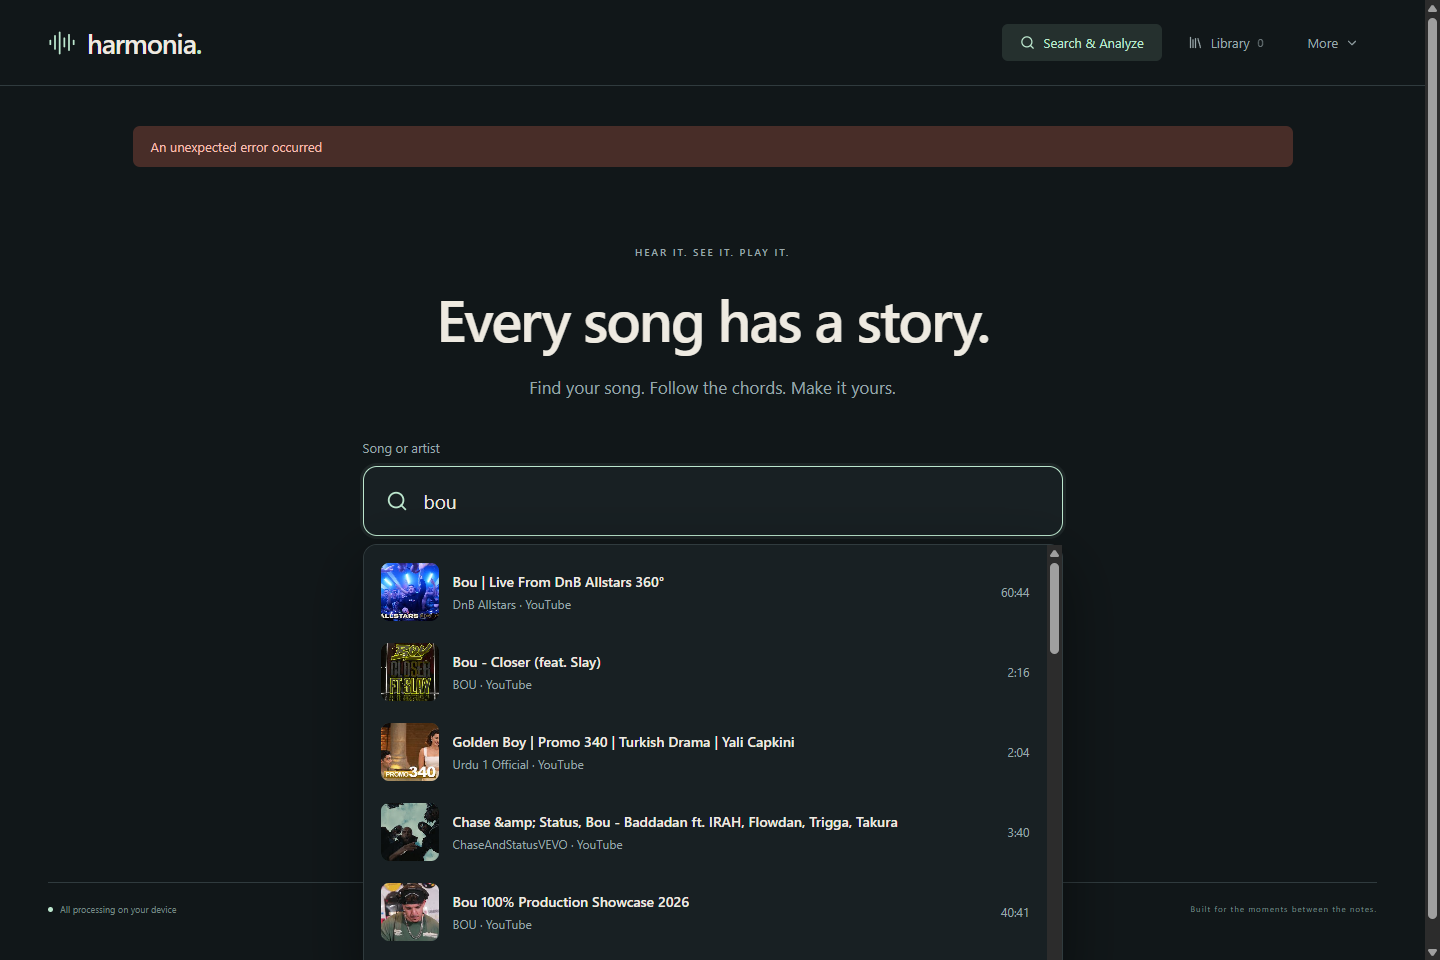
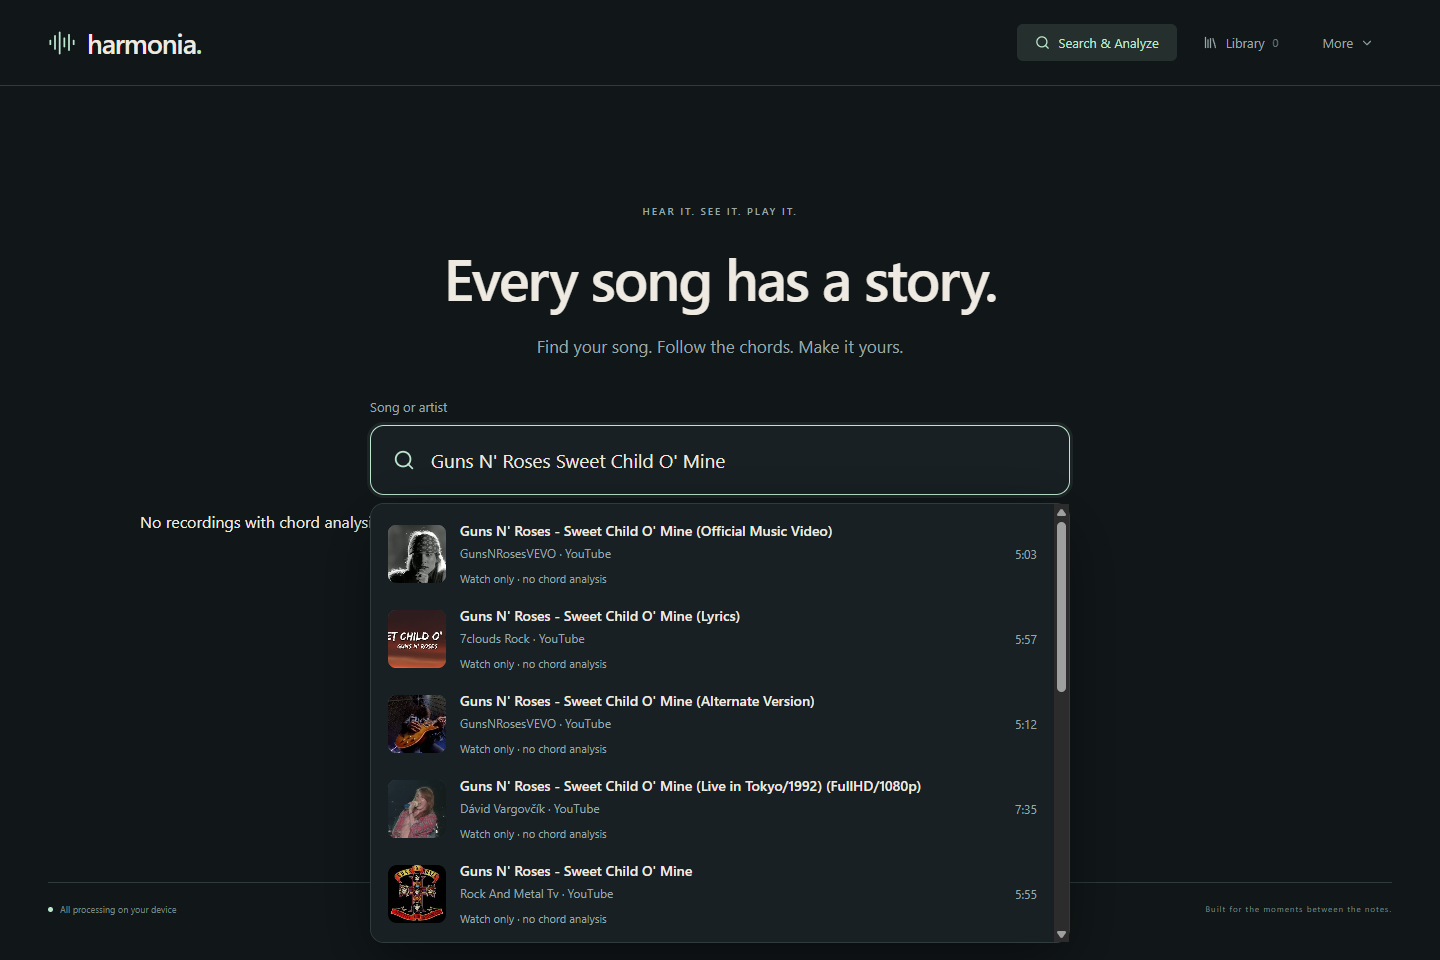
Decode YouTube titles and expose actual analysis availability

diff --git a/packages/providers/consumer-catalog.ts b/packages/providers/consumer-catalog.ts
@@ -13,11 +13,12 @@ export class ConsumerCatalog {
     onResults?: (results: CatalogRecording[]) => void,
   ) {
     signal.throwIfAborted();
-    // A slow supplementary catalog must not indefinitely hold YouTube suggestions.
+    // YouTube suggestions publish independently. Give the playable catalog enough
+    // time to respond instead of silently discarding it after a short typeahead budget.
     const supplemental = new AbortController();
     const cancel = () => supplemental.abort(signal.reason);
     signal.addEventListener('abort', cancel, { once: true });
-    const timeout = setTimeout(() => supplemental.abort(), 2000);
+    const timeout = setTimeout(() => supplemental.abort(), 10000);
     try {
       const [videos, recordings] = await Promise.allSettled([
         this.youtube.search(query, signal).then((results) => {
@@ -38,7 +39,11 @@ export class ConsumerCatalog {
         notice:
           videos.status === 'rejected'
             ? 'YouTube search is unavailable on this computer. You can still choose an available recording below.'
-            : null,
+            : recordings.status === 'rejected'
+              ? 'Could not load recordings with chord analysis. Try searching again. YouTube results are watch-only.'
+              : !results.some((recording) => recording.audio) && results.length
+                ? 'No recordings with chord analysis were found. YouTube results are watch-only.'
+                : null,
       };
     } finally {
       clearTimeout(timeout);

diff --git a/packages/providers/consumer-catalog.test.ts b/packages/providers/consumer-catalog.test.ts
@@ -1,6 +1,38 @@
-import { expect, it, vi } from 'vitest';
+import { afterEach, expect, it, vi } from 'vitest';
 import { ConsumerCatalog } from './consumer-catalog';
 import type { CatalogRecording } from '../application/catalog-contracts';
+afterEach(() => vi.useRealTimers());
+
+it('does not discard playable catalog results after only two seconds', async () => {
+  vi.useFakeTimers();
+  let sourceSignal!: AbortSignal;
+  let finish!: (value: CatalogRecording[]) => void;
+  const service = new ConsumerCatalog(
+    { search: async () => [video] },
+    {
+      search: (_q, _provider, signal) =>
+        new Promise((resolve) => {
+          sourceSignal = signal;
+          finish = resolve;
+        }),
+      acquire: vi.fn(),
+    },
+  );
+  const pending = service.search('song', 'youtube', new AbortController().signal);
+  await vi.advanceTimersByTimeAsync(2500);
+  expect(sourceSignal.aborted).toBe(false);
+  finish([permitted]);
+  expect((await pending).results).toContain(permitted);
+});
+
+it('explains when search finds only watch-only videos, not playable recordings', async () => {
+  const service = new ConsumerCatalog(
+    { search: async () => [video] },
+    { search: async () => [], acquire: vi.fn() },
+  );
+  const page = await service.search('song', 'youtube', new AbortController().signal);
+  expect(page.notice).toContain('YouTube results are watch-only');
+});
 
 const video: CatalogRecording = {
   id: 'abcdefghijk',

diff --git a/tests/e2e/consumer-player.spec.ts b/tests/e2e/consumer-player.spec.ts
@@ -123,6 +123,7 @@ test('configured API mock: debounce, stale response protection, arrows, Escape a
   await input.fill('new');
   await expect(page.getByRole('option')).toHaveCount(2);
   await expect(page.getByRole('option').first()).toContainText('new song 1');
+  await expect(page.getByRole('option').first()).toContainText('Watch only · no chord analysis');
   await expect
     .poll(() => page.evaluate(() => Reflect.get(window, 'mockedSearchCompleted')))
     .toContain('old');
@@ -138,7 +139,9 @@ test('configured API mock: debounce, stale response protection, arrows, Escape a
   await input.press('Enter');
   await expect(page.getByRole('heading', { name: 'new song 2' })).toBeVisible();
   await expect(
-    page.getByText('This song isn’t available for chord playback yet. Choose another recording.'),
+    page.getByText(
+      'YouTube videos are watch-only here. For chord playback, choose a result marked Analyze & play.',
+    ),
   ).toBeVisible();
   await expect(page.getByRole('link', { name: 'Watch on YouTube' })).toHaveAttribute(
     'href',

diff --git a/apps/desktop/src/components/SearchAnalyzeStage.tsx b/apps/desktop/src/components/SearchAnalyzeStage.tsx
@@ -123,7 +123,11 @@ export function SearchAnalyzeStage({
           {state.status === 'input-required' && (
             <section className="consumer-unavailable" role="status">
               <h2>{state.selected?.title}</h2>
-              <p>This song isn’t available for chord playback yet. Choose another recording.</p>
+              <p>
+                {state.selected?.provider === 'youtube'
+                  ? 'YouTube videos are watch-only here. For chord playback, choose a result marked Analyze & play.'
+                  : 'Chord analysis is not available for this recording.'}
+              </p>
               {state.selected?.provider === 'youtube' && (
                 <a href={state.selected.pageUrl} target="_blank" rel="noreferrer">
                   Watch on YouTube

diff --git a/apps/desktop/src/components/SongTypeahead.tsx b/apps/desktop/src/components/SongTypeahead.tsx
@@ -128,6 +128,9 @@ export function SongTypeahead({
                   {recording.artist}
                   {recording.provider === 'youtube' ? ' · YouTube' : ''}
                 </span>
+                <span className={`suggestion-availability ${recording.audio ? 'available' : ''}`}>
+                  {recording.audio ? 'Analyze & play' : 'Watch only · no chord analysis'}
+                </span>
               </div>
               {recording.duration !== null && (
                 <span className="suggestion-duration">{timeLabel(recording.duration)}</span>

diff --git a/tests/e2e/song-search.spec.ts b/tests/e2e/song-search.spec.ts
@@ -53,6 +53,9 @@ test('catalog acquisition can be cancelled and a later selection prepares a real
   });
   await page.goto('/');
   await page.getByRole('combobox', { name: 'Song or artist' }).fill('fixture');
+  await expect(page.getByRole('option').filter({ hasText: 'Catalog fixture' })).toContainText(
+    'Analyze & play',
+  );
   await page.getByRole('option', { name: /Catalog fixture/ }).click();
   await expect.poll(() => downloading).toBe(true);
   await page.getByRole('button', { name: 'Cancel analysis', exact: true }).click();

diff --git a/apps/desktop/src/styles/app.css b/apps/desktop/src/styles/app.css
@@ -827,6 +827,15 @@ select {
   background: var(--accent);
   color: var(--ink);
 }
+.suggestion-copy .suggestion-availability {
+  font-size: 11px;
+  margin-top: 5px;
+  color: var(--muted);
+}
+.suggestion-copy .suggestion-availability.available {
+  color: var(--accent);
+  font-weight: 600;
+}
 .beat-ruler {
   height: 14px;
   position: relative;

diff --git a/apps/desktop/src-tauri/src/search.rs b/apps/desktop/src-tauri/src/search.rs
@@ -265,12 +265,56 @@ fn append_metadata(bytes: &mut Vec<u8>, chunk: &[u8]) -> Result<(), SearchError>
     Ok(())
 }
 
+// Decode provider text once, never interpret it as HTML. Unknown/malformed entities
+// stay literal; the caller bounds input and sanitizes/redacts the decoded text.
+fn decode_entities(input: &str) -> String {
+    let mut output = String::with_capacity(input.len());
+    let mut remaining = input;
+    while let Some(at) = remaining.find('&') {
+        output.push_str(&remaining[..at]);
+        remaining = &remaining[at + 1..];
+        let decoded = remaining.split_once(';').and_then(|(entity, tail)| {
+            if entity.len() > 32 {
+                return None;
+            }
+            let ch = match entity {
+                "amp" => Some('&'),
+                "quot" => Some('"'),
+                "apos" => Some('\''),
+                "lt" => Some('<'),
+                "gt" => Some('>'),
+                "nbsp" => Some(' '),
+                _ => {
+                    let number = if let Some(hex) = entity
+                        .strip_prefix("#x")
+                        .or_else(|| entity.strip_prefix("#X"))
+                    {
+                        u32::from_str_radix(hex, 16).ok()
+                    } else {
+                        entity
+                            .strip_prefix('#')
+                            .and_then(|decimal| decimal.parse::<u32>().ok())
+                    };
+                    number.and_then(char::from_u32)
+                }
+            }?;
+            Some((ch, tail))
+        });
+        if let Some((ch, tail)) = decoded {
+            output.push(ch);
+            remaining = tail;
+        } else {
+            output.push('&');
+        }
+    }
+    output.push_str(remaining);
+    output
+}
+
 fn plain(value: &Value, key: &str) -> String {
-    let text: String = value
-        .as_str()
-        .unwrap_or("")
+    let bounded: String = value.as_str().unwrap_or("").chars().take(4096).collect();
+    let text: String = decode_entities(&bounded)
         .chars()
-        .take(4096)
         .map(|ch| if ch.is_control() { ' ' } else { ch })
         .collect();
     text.replace(key, "[redacted]")
@@ -593,6 +637,38 @@ mod tests {
         append_metadata(&mut bytes, &[1]).unwrap();
         assert!(append_metadata(&mut bytes, &[1]).is_err());
         assert_eq!(bytes.len(), MAX_BYTES);
+    }
+
+    #[test]
+    fn youtube_entities_are_decoded_once_as_plain_text() {
+        let data = serde_json::json!({"items":[{"id":{"videoId":"abcdefghijk"},"snippet":{
+            "title":"Guns N&#39; Roses - Sweet Child O&#39; Mine (Official Music Video)",
+            "channelTitle":"Rock &amp; Roll &#x1F3B8;"
+        }}]});
+        let result = parse_recordings(&data, KEY).unwrap();
+        assert_eq!(
+            result[0].title,
+            "Guns N' Roses - Sweet Child O' Mine (Official Music Video)"
+        );
+        assert_eq!(result[0].artist, "Rock & Roll 🎸");
+        assert_eq!(
+            plain(
+                &serde_json::json!(
+                    "&quot;Hi&apos;&nbsp;&lt;3&gt; &amp;#39; &unknown; &#xD800; &#999999999999;"
+                ),
+                KEY
+            ),
+            "\"Hi' <3> &#39; &unknown; &#xD800; &#999999999999;"
+        );
+        assert_eq!(
+            plain(&serde_json::json!("A&#10;B&#0;C & unfinished"), KEY),
+            "A B C & unfinished"
+        );
+        let encoded_key = KEY
+            .chars()
+            .map(|c| format!("&#{};", c as u32))
+            .collect::<String>();
+        assert_eq!(plain(&serde_json::json!(encoded_key), KEY), "[redacted]");
     }
 
     #[test]

diff --git a/docs/consumer-player-acceptance.md b/docs/consumer-player-acceptance.md
@@ -6,6 +6,24 @@ unavailable**: no permitted exact analysis audio is connected for those videos.
 This checkpoint is not recognition-quality approval or final release acceptance.
 The visible desktop GUI was never launched.
 
+### Search bug follow-up
+
+[Native follow-up evidence](review-evidence/consumer-native-03.json) verifies the
+user-reported Guns N' Roses / Sweet Child O' Mine search against the real API and
+rebuilt Windows executable. Numeric HTML references such as `&#39;` now display
+as apostrophes; channel/title decoding remains bounded, plain-text, single-pass
+and redacted. Rows show **Analyze & play** or **Watch only · no chord analysis**
+before selection. Search clearly reports when it found no analyzable recordings.
+The separate licensed catalog now has ten seconds instead of two to respond;
+YouTube suggestions still publish immediately. These changes do not connect a
+YouTube analysis source or enable chord playback for those videos.
+
+861 unit tests, 37 Rust tests and all nine affected production browser tests pass;
+lint, types, formatting, clippy and optimized build pass. Hidden native validation
+also rechecks full licensed-song preparation (4.40s), autoplay, late seeking and
+SQLite cache (0.82s), with complete cleanup. The following earlier measurements
+are retained as checkpoint evidence rather than overwritten.
+
 ## Verified behavior
 
 - One search combobox, 300 ms debounce, real native YouTube requests without Enter,
@@ -32,7 +50,7 @@ The visible desktop GUI was never launched.
 
 ## Real source and timing
 
-[Final native evidence](review-evidence/consumer-native-02.json) exercises the fresh
+[Initial consumer native evidence](review-evidence/consumer-native-02.json) exercises the then-fresh
 release executable, actual Google API, Commons API/original media, whole-song
 worker, real hidden Windows WebView2 playback and isolated native SQLite.
 
@@ -109,5 +127,5 @@ actual low-end-hardware acceptance.
 Run when ready:
 `C:\Users\yarde\Documents\codexp\Harmonia\apps\desktop\src-tauri\target\continuation-clean\release\harmonia.exe`
 
[2 lines of base64/hex data omitted]
 This executable was verified hidden and left closed.

diff --git a/docs/implementation-plan.md b/docs/implementation-plan.md
@@ -108,6 +108,29 @@ Files: `ml/{data,features,models,training,evaluation,export,experiments}` and ML
 
 ### Active continuation: consumer typeahead and prepared player
 
+User-reported follow-up: YouTube titles displayed literal `&#39;`, and every
+YouTube selection reached the same unavailable message. Native `plain()` omitted
+entity decoding; a red/green regression now covers the exact Guns N' Roses title,
+numeric/hex/common named entities, malformed references, one-pass decoding and
+redaction after decoding. The audio failure is an architecture limitation, not a
+bad key: every official YouTube result has `audio: null`. No permitted analysis
+source for arbitrary YouTube videos exists in this implementation.
+
+Search now labels each result **Analyze & play** or **Watch only · no chord
+analysis** before selection, explains watch-only searches explicitly, and removes
+the misleading suggestion that another YouTube video will work. The playable
+catalog's independent timeout rises from two to ten seconds (YouTube results
+still publish immediately); a regression proves a 2.5-second response is retained.
+This repairs title formatting/discovery and communicates the gap; it does not
+claim to have enabled arbitrary YouTube chord playback.
+
+Verified follow-up: 861 TS tests, 37 Rust tests, all nine affected production E2Es,
+lint/types/format/clippy and optimized build pass. Hidden native probe
+`consumer-native-03.json` confirms the exact official title is correctly decoded,
+capability labels match actual sources, and licensed full-song playback/cache
+remain working. The current executable/hash are in consumer acceptance. No key
+changed, no visible GUI launched and no new ML work occurred.
+
 Follow `docs/consumer-player-plan.md` and the latest detailed user specification.
 Resume checkpoint4ff6a28; preserve all code/research and untracked work. Primary
 search must make actual configured YouTube requests on debounced text changes.
